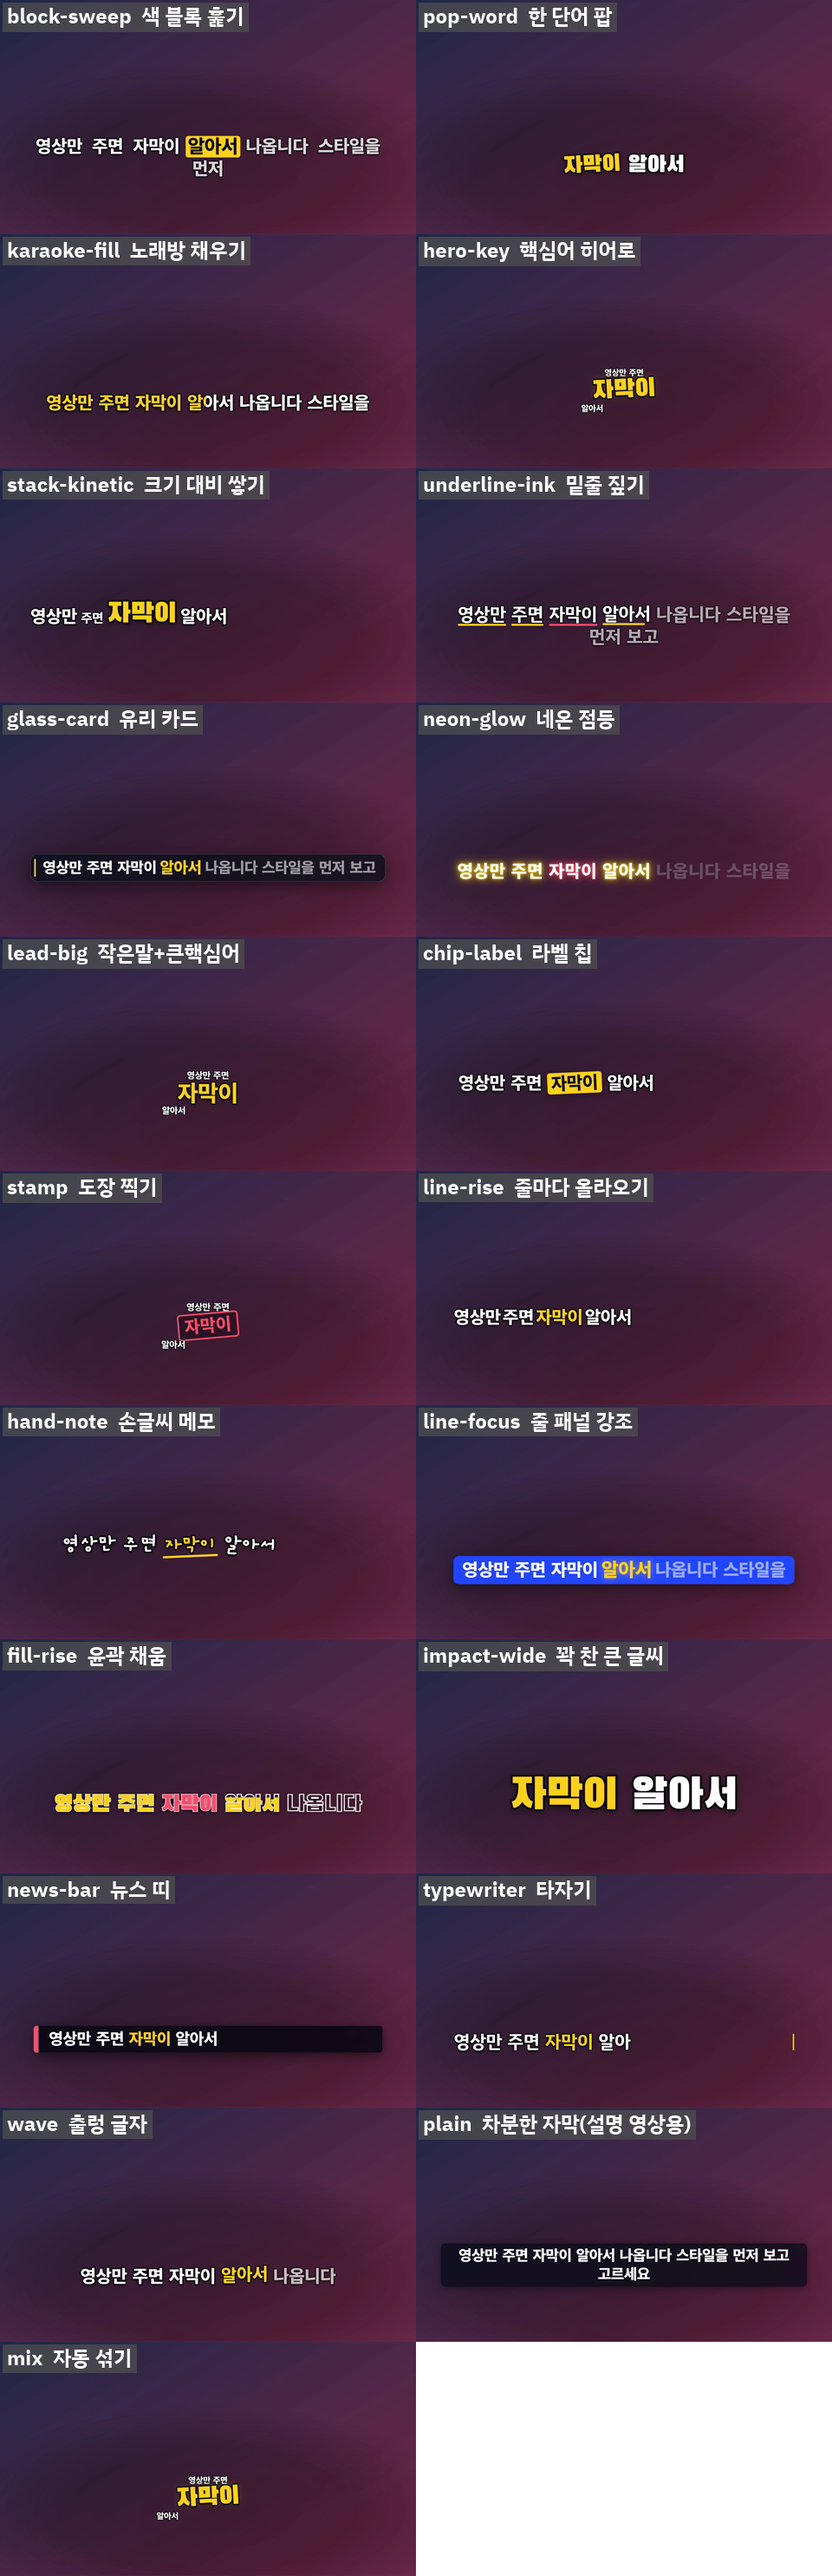
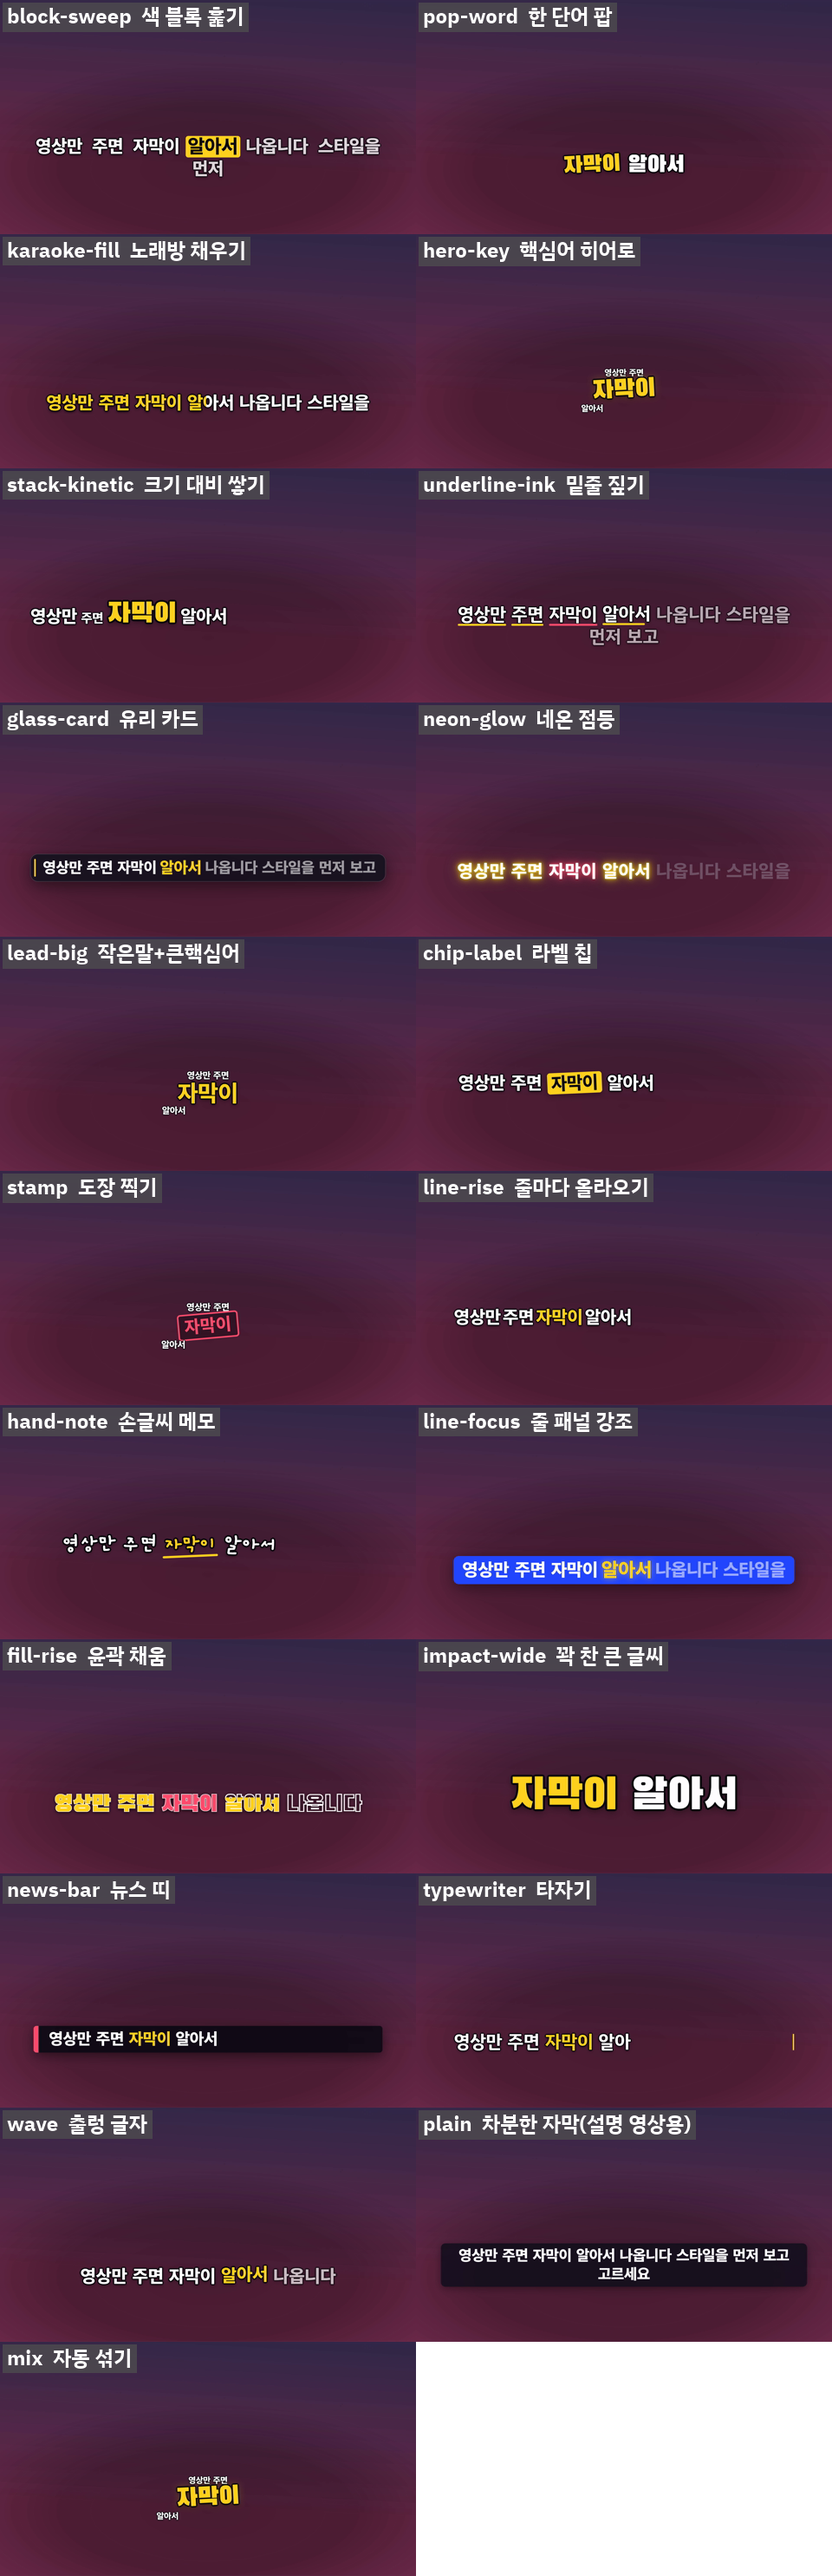
batch A: 10 lyric / kinetic caption styles (stagger-center, split-reveal, rubber-stretch, spin-in, blur-focus, slot-roll, echo-trail, swing-hang, drop-letters, skew-slide)

diff --git a/skills/dynamic-captions/scripts/runtime.js b/skills/dynamic-captions/scripts/runtime.js
@@ -582,6 +582,69 @@
     update(ph, t) { ph.words.forEach((w) => { const s = ph.els[w.i], vis = t >= w.start - 0.01, p = clamp((t - w.start) / en(0.2)); if (w === ph.key) { const sc = vis ? 1.6 - 0.6 * easeOut(p) : 1.6; s.style.opacity = vis ? 1 : 0; s.style.filter = `blur(${((1 - p) * 0.06).toFixed(3)}em)`; s.style.transform = `rotate(-6deg) scale(${sc.toFixed(3)},${(sc - 0.06 * Math.sin(Math.PI * p)).toFixed(3)})`; } else smallEnter(s, (t - w.start) / en(0.16), vis); }); },
   };
 
+
+  // ======== v1.2 batch A (2026-10-30): lyric / kinetic ========
+  // A1. stagger-center : letters appear from the middle of the word outward (stagger-from-centre idea)
+  S['stagger-center'] = {
+    label: '가운데부터 퍼지기', group: { maxChars: portrait ? 10 : 20, maxWords: portrait ? 3 : 6 },
+    build(ph, el) { charLine(ph, el, DISP); ph.words.forEach((w, k) => { if (w === ph.key) ph.els[k].style.color = PAL.accent; }); },
+    update(ph, t) { ph.words.forEach((w, k) => { const cs = ph.chars[k], mid = (cs.length - 1) / 2; ph.els[k].style.opacity = t >= w.start - 0.03 ? 1 : 0; cs.forEach((c, i) => { const p = easeBack((t - w.start - Math.abs(i - mid) * en(0.05)) / en(0.22)); c.style.opacity = clamp(p * 3); c.style.transform = `scale(${(0.3 + 0.7 * p).toFixed(3)})`; }); }); },
+  };
+  // A2. split-reveal : the word opens from its centre line, top and bottom halves parting like a curtain
+  S['split-reveal'] = {
+    label: '위아래 갈라 열기', group: { maxChars: portrait ? 10 : 20, maxWords: portrait ? 3 : 6 },
+    build(ph, el, mix) { const ln = mk('div', 'ln', el); ln.style.fontFamily = DISP; ln.style.fontWeight = 400; ph.els = ph.words.map((w) => { const s = mk('span', 'w', ln, w.text); s.style.textShadow = OUT(0.055); if (w === ph.key) s.style.color = keyColor(ph, mix); return s; }); },
+    update(ph, t) { ph.words.forEach((w, k) => { const p = easeOut((t - w.start + 0.02) / en(0.25)), h = ((1 - p) * 50).toFixed(1); ph.els[k].style.clipPath = `inset(${h}% -10% ${h}% -10%)`; ph.els[k].style.opacity = t >= w.start - 0.03 ? 1 : 0; }); },
+  };
+  // A3. rubber-stretch : the word lands stretched wide, then snaps back like rubber
+  S['rubber-stretch'] = {
+    label: '고무줄 늘이기', slack: 1.15, group: { maxChars: portrait ? 8 : 16, maxWords: portrait ? 2 : 4 },
+    build(ph, el, mix) { const ln = mk('div', 'ln', el); ln.style.fontFamily = DISP; ln.style.fontWeight = 400; ph.els = ph.words.map((w) => { const s = mk('span', 'w', ln, w.text); s.style.textShadow = OUT(0.055); if (w === ph.key) s.style.color = keyColor(ph, mix); return s; }); },
+    update(ph, t) { ph.words.forEach((w, k) => { const s = ph.els[k], d = (t - w.start) / SPD, vis = d >= -0.02, a = vis ? Math.exp(-Math.max(0, d) * 7) * Math.cos(Math.max(0, d) * 22) : 0; s.style.opacity = vis ? 1 : 0; s.style.transform = `scale(${(1 + 0.12 * a).toFixed(3)},${(1 - 0.12 * a).toFixed(3)})`; }); },
+  };
+  // A4. spin-in : letters spin into place one after another
+  S['spin-in'] = {
+    label: '빙글 들어오기', slack: 1.05, group: { maxChars: portrait ? 9 : 18, maxWords: portrait ? 3 : 5 },
+    build(ph, el) { charLine(ph, el, DISP); ph.words.forEach((w, k) => { if (w === ph.key) ph.els[k].style.color = PAL.accent2; }); },
+    update(ph, t) { ph.words.forEach((w, k) => { ph.els[k].style.opacity = t >= w.start - 0.03 ? 1 : 0; ph.chars[k].forEach((c, i) => { const p = easeOut((t - w.start - i * en(0.04)) / en(0.3)); c.style.opacity = clamp(p * 2); c.style.transform = `rotate(${((1 - p) * -200).toFixed(1)}deg) scale(${(0.4 + 0.6 * p).toFixed(3)})`; }); }); },
+  };
+  // A5. blur-focus : the spoken word comes into focus quickly (0.2 s, never a long blur)
+  S['blur-focus'] = {
+    label: '흐림에서 선명', group: { maxChars: portrait ? 11 : 22, maxWords: portrait ? 4 : 6 },
+    build(ph, el, mix) { const ln = mk('div', 'ln', el); ph.els = ph.words.map((w) => { const s = mk('span', 'w', ln, w.text); s.style.textShadow = OUT(0.06); if (w === ph.key) s.style.color = keyColor(ph, mix); return s; }); },
+    update(ph, t) { ph.words.forEach((w, k) => { const s = ph.els[k], p = easeOut((t - w.start + 0.02) / en(0.2)); s.style.opacity = t >= w.start - 0.03 ? (0.3 + 0.7 * p).toFixed(3) : 0; s.style.filter = `blur(${((1 - p) * 0.08).toFixed(3)}em)`; s.style.transform = `scale(${(1.08 - 0.08 * p).toFixed(3)})`; }); },
+  };
+  // A6. slot-roll : letters roll up into place like a slot machine reel
+  S['slot-roll'] = {
+    label: '슬롯 굴리기', group: { maxChars: portrait ? 10 : 20, maxWords: portrait ? 3 : 6 },
+    build(ph, el) { const ln = mk('div', 'ln', el); ln.style.fontFamily = DISP; ln.style.fontWeight = 400; ph.chars = []; ph.els = ph.words.map((w) => { const s = mk('span', 'w', ln, ''); s.style.overflow = 'hidden'; s.style.verticalAlign = 'bottom'; s.style.padding = '0 .03em .06em'; if (w === ph.key) s.style.color = PAL.accent; ph.chars.push([...w.text].map((ch) => { const i = mk('span', 'c', s, ch); i.style.display = 'inline-block'; i.style.textShadow = OUT(0.06); return i; })); return s; }); },
+    update(ph, t) { ph.words.forEach((w, k) => { ph.chars[k].forEach((c, i) => { const p = easeBack((t - w.start - i * en(0.035)) / en(0.26)); c.style.transform = `translateY(${t < w.start - 0.03 ? 120 : ((1 - p) * 120).toFixed(1)}%)`; }); }); },
+  };
+  // A7. echo-trail : two fading ghost copies trail behind the word and catch up
+  S['echo-trail'] = {
+    label: '잔상 겹치기', slack: 1.1, group: { maxChars: portrait ? 9 : 18, maxWords: portrait ? 3 : 5 },
+    build(ph, el, mix) { const ln = mk('div', 'ln', el); ln.style.fontFamily = DISP; ln.style.fontWeight = 400; ph.els = ph.words.map((w) => { const s = mk('span', 'w', ln, w.text); s.style.isolation = 'isolate'; s.style.textShadow = OUT(0.055); if (w === ph.key) s.style.color = keyColor(ph, mix); s.g = [1, 2].map((n) => { const g = mk('span', 'g', s, w.text); Object.assign(g.style, { position: 'absolute', left: 0, top: 0, color: n === 1 ? PAL.accent : PAL.accent2, zIndex: -1, textShadow: 'none' }); return g; }); return s; }); },
+    update(ph, t) { ph.words.forEach((w, k) => { const s = ph.els[k], p = easeOut((t - w.start) / en(0.4)); s.style.opacity = t >= w.start - 0.02 ? 1 : 0; s.g.forEach((g, n) => { g.style.transform = `translate(${((1 - p) * -0.18 * (n + 1)).toFixed(3)}em,${((1 - p) * 0.06 * (n + 1)).toFixed(3)}em)`; g.style.opacity = ((1 - p) * (0.7 - n * 0.25)).toFixed(3); }); }); },
+  };
+  // A8. swing-hang : the line hangs from a pin above and swings to rest
+  S['swing-hang'] = {
+    label: '매달려 흔들', slack: 1.1, group: { maxChars: portrait ? 9 : 16, maxWords: portrait ? 3 : 5 },
+    build(ph, el, mix) { const ln = mk('div', 'ln', el); ln.style.transformOrigin = '50% -40%'; ph.wrap = ln; ph.els = ph.words.map((w) => { const s = mk('span', 'w', ln, w.text); s.style.textShadow = OUT(0.06); if (w === ph.key) s.style.color = keyColor(ph, mix); return s; }); },
+    update(ph, t) { const d = Math.max(0, t - ph.vs) / SPD; ph.wrap.style.transform = `rotate(${(9 * Math.exp(-d * 3.2) * Math.cos(d * 9)).toFixed(2)}deg)`; ph.words.forEach((w, k) => { ph.els[k].style.opacity = t >= w.start - 0.03 ? 1 : 0.3; }); },
+  };
+  // A9. drop-letters : letters drop from above one by one and land
+  S['drop-letters'] = {
+    label: '글자 비 내리기', group: { maxChars: portrait ? 9 : 18, maxWords: portrait ? 3 : 5 },
+    build(ph, el) { charLine(ph, el); ph.words.forEach((w, k) => { if (w === ph.key) ph.els[k].style.color = PAL.accent; }); },
+    update(ph, t) { ph.words.forEach((w, k) => { ph.els[k].style.opacity = t >= w.start - 0.03 ? 1 : 0; ph.chars[k].forEach((c, i) => { const p = clamp((t - w.start - i * en(0.04)) / en(0.24)); const y = p < 1 ? -0.7 * (1 - p * p) : 0; c.style.opacity = clamp(p * 3); c.style.transform = `translateY(${y.toFixed(3)}em)`; }); }); },
+  };
+  // A10. skew-slide : words rush in from the right, leaning forward, then stand straight
+  S['skew-slide'] = {
+    label: '기울어 미끄러지기', group: { maxChars: portrait ? 10 : 20, maxWords: portrait ? 3 : 6 },
+    build(ph, el, mix) { const ln = mk('div', 'ln', el); ln.style.fontFamily = DISP; ln.style.fontWeight = 400; ln.style.fontStyle = 'normal'; ph.els = ph.words.map((w) => { const s = mk('span', 'w', ln, w.text); s.style.textShadow = OUT(0.055); if (w === ph.key) s.style.color = keyColor(ph, mix); return s; }); },
+    update(ph, t) { ph.words.forEach((w, k) => { const s = ph.els[k], p = easeExpo((t - w.start + 0.02) / en(0.3)); s.style.opacity = t >= w.start - 0.03 ? clamp(p * 2) : 0; s.style.transform = `translateX(${((1 - p) * 0.8).toFixed(3)}em) skewX(${((1 - p) * -22).toFixed(1)}deg)`; }); },
+  };
+
   // ---------- mix: one style per phrase ----------
   const MIX_BASE = ['block-sweep', 'line-rise', 'chip-label', 'lead-big', 'underline-ink', 'stack-kinetic', 'karaoke-fill', 'mask-slide', 'marker-swipe', 'rise-lines'];
   const MIX_KEY = ['hero-key', 'stamp', 'lead-big'];
